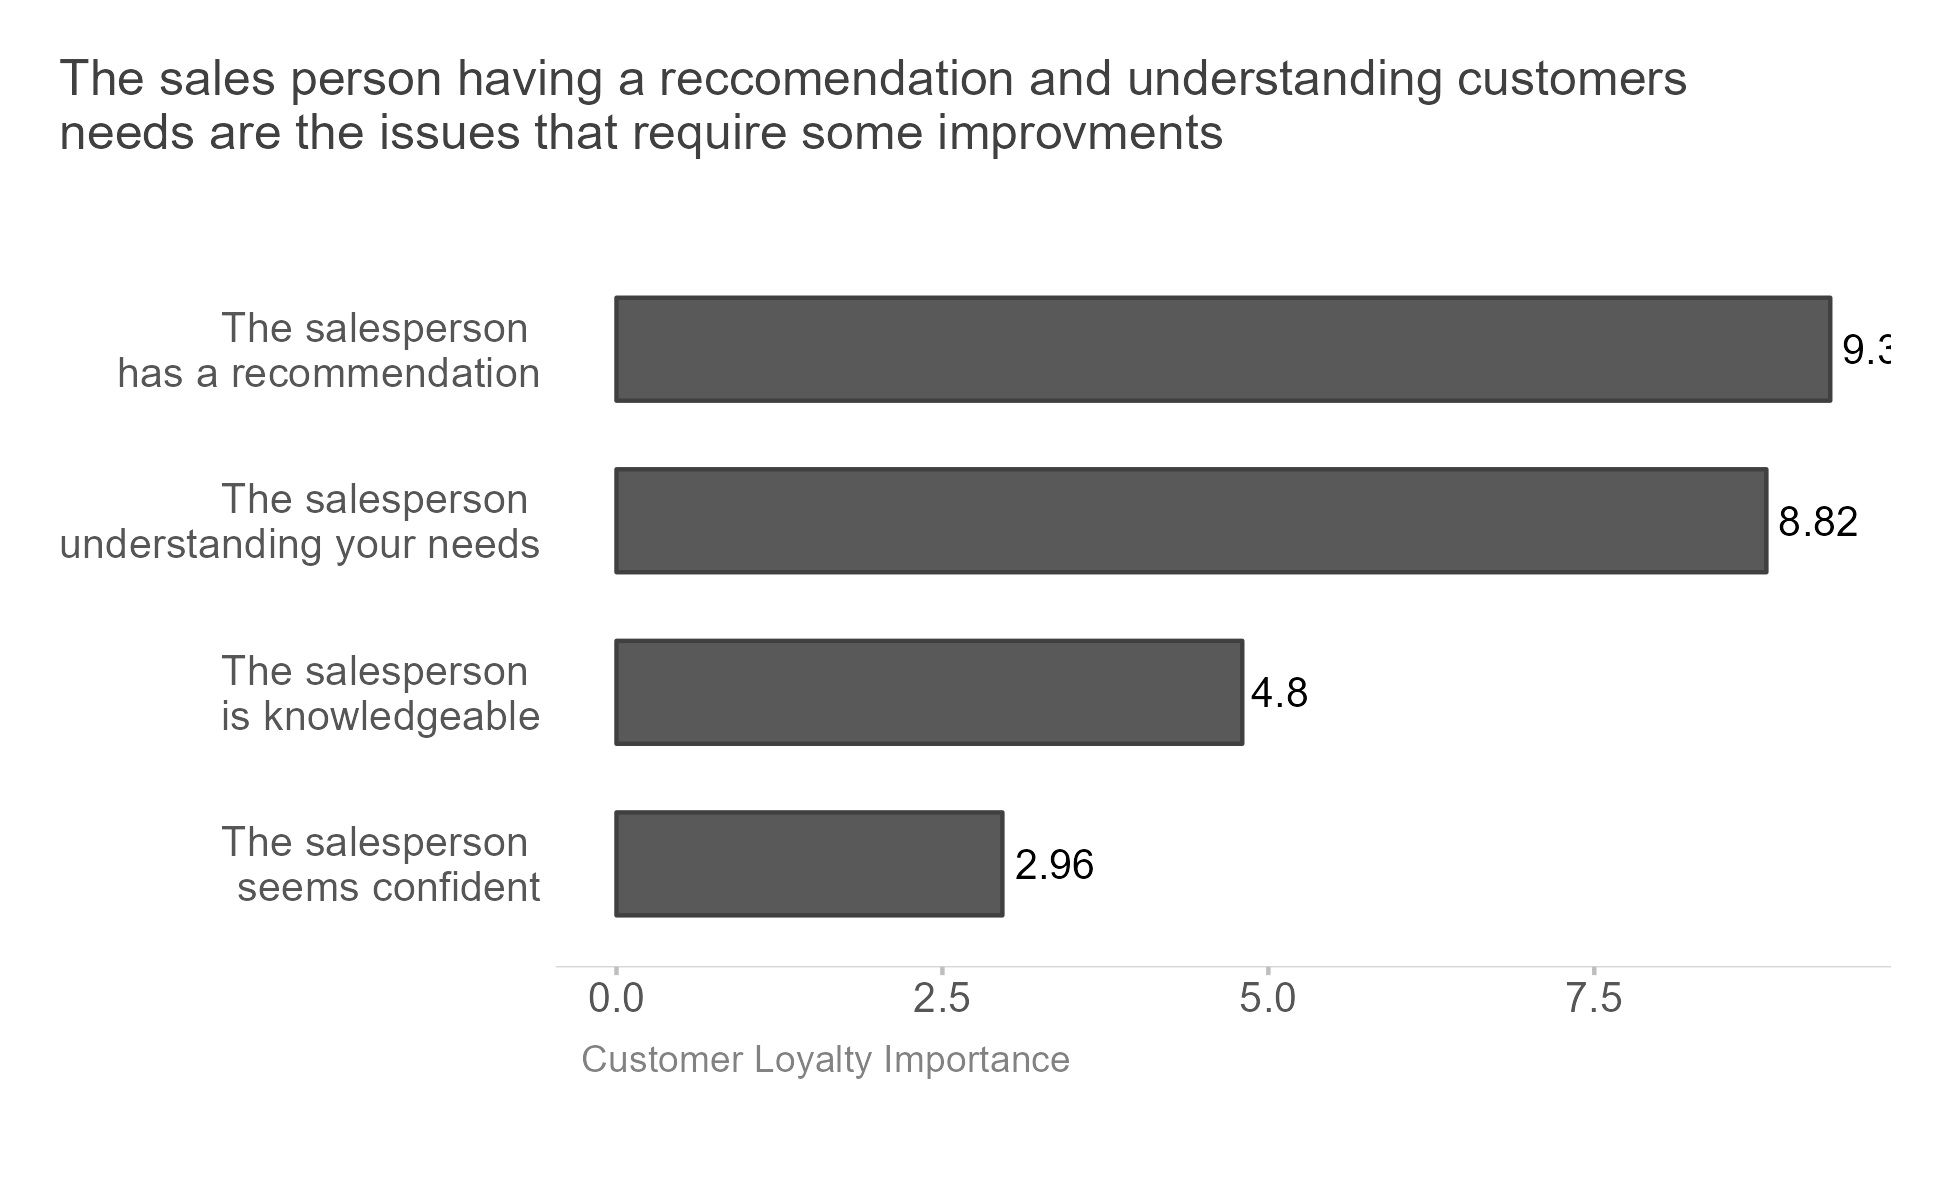
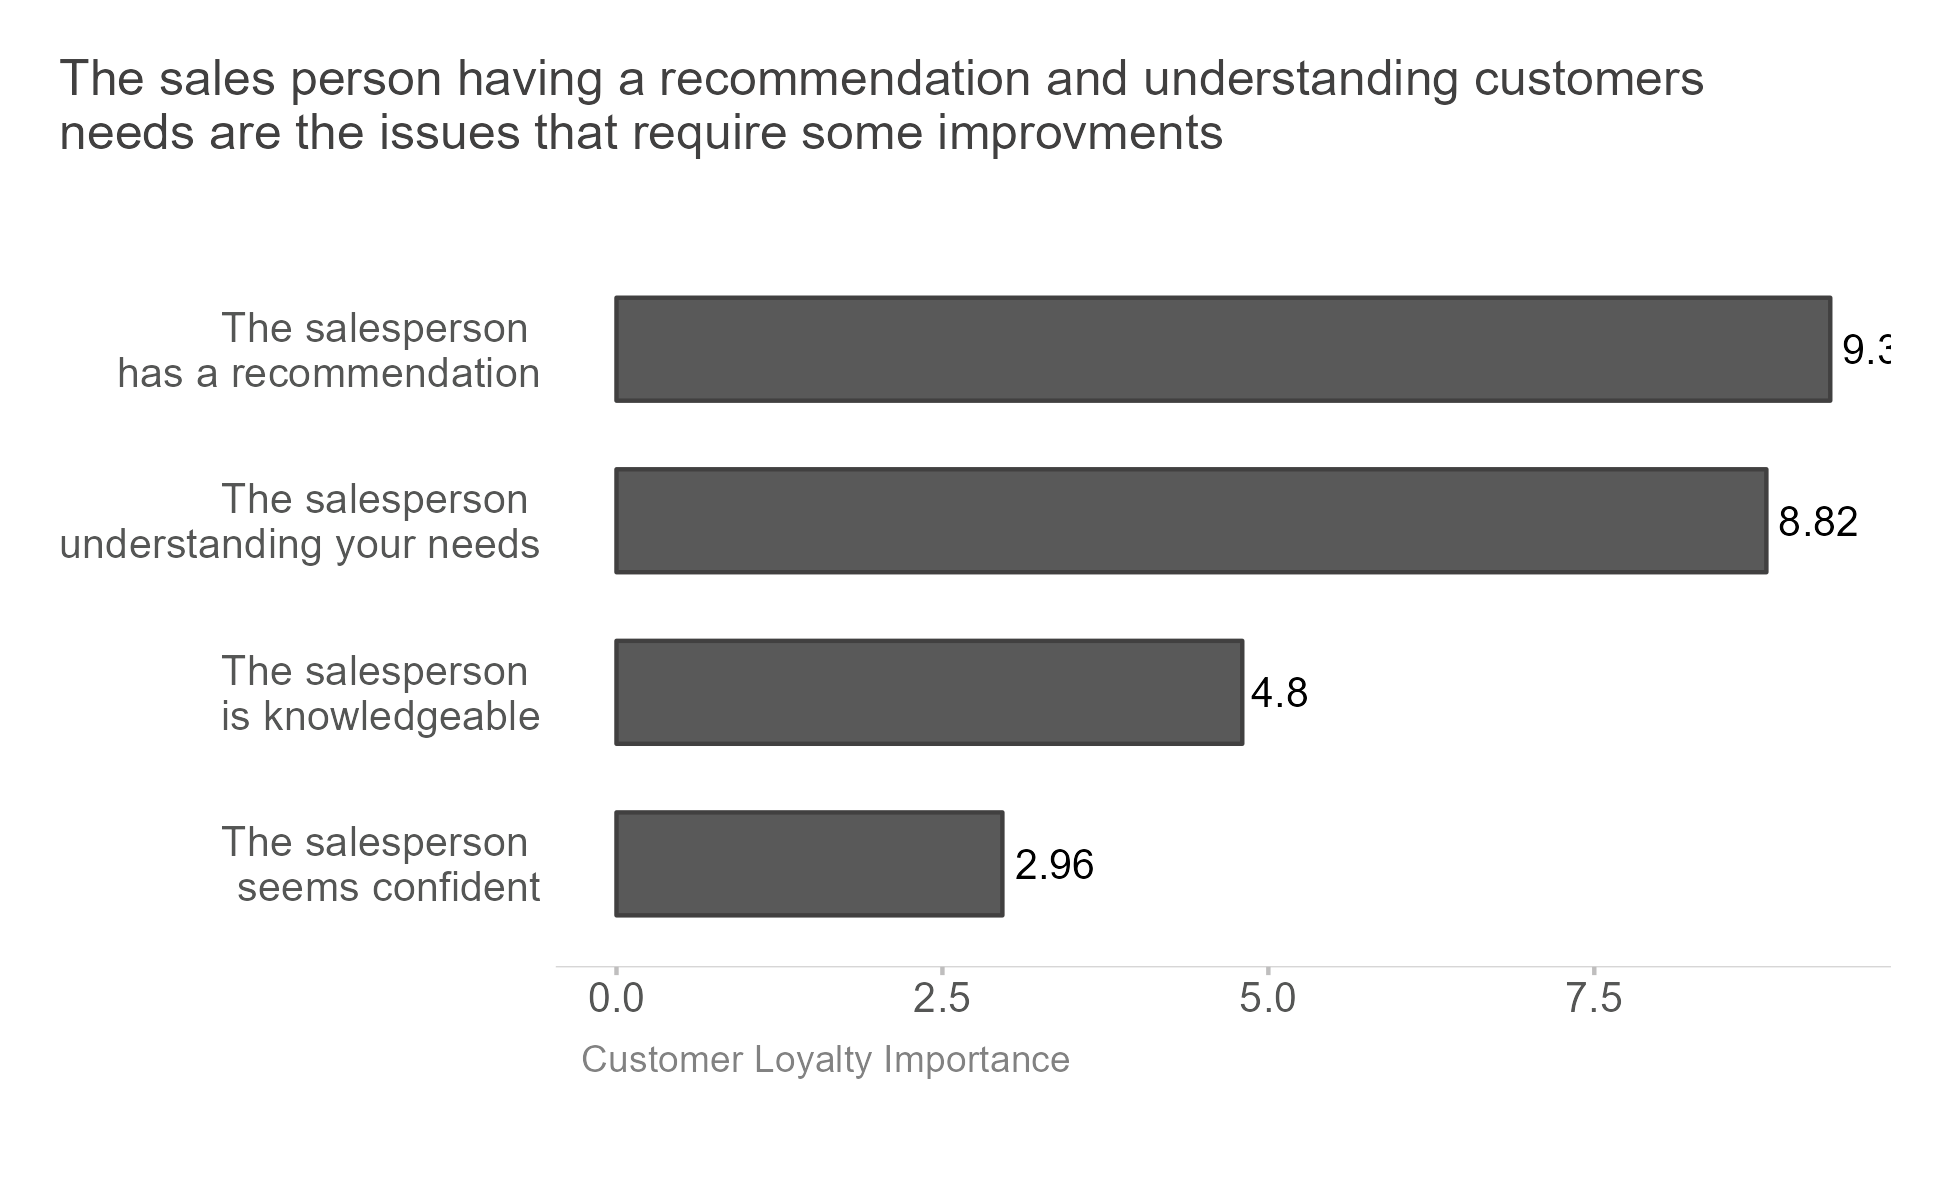
update content

Changed region(s): [[0.3692, 0.0308, 0.8923, 0.0925]]

diff --git a/docs/posts/2024-01-15-key-driver-analysis/index.html b/docs/posts/2024-01-15-key-driver-analysis/index.html
@@ -267,11 +267,11 @@ pre > code.sourceCode > span > a:first-child::before { text-decoration: underlin
 
 
 <p><br></p>
-<p>Each company aims to build a loyal customer base, as customers are more likely to reinvest in a company they trust. Customer loyalty is driven by satisfaction with products and services. Salespeople’s competencies greatly influence customer loyalty. Therefore, many companies aim to understand essential factors for improving sales competencies that boost customer loyalty and repeat investments.</p>
+<p>In the competitive business landscape, every organization strives to cultivate a loyal customer base. This loyalty, often a result of trust and satisfaction with a company’s products and services, is a key driver of repeat business. Consequently, companies are increasingly focusing on identifying and enhancing the critical factors influencing customer loyalty and encouraging repeat investments.</p>
 <p>This post will guide you on how to use key driver analysis to identify the essential factors that impact customer satisfaction and, consequently, customer loyalty.</p>
 <section id="problem-statement" class="level1">
 <h1>Problem statement</h1>
-<p>A financial services organization wants to improve customer loyalty<a href="#fn1" class="footnote-ref" id="fnref1" role="doc-noteref"><sup>1</sup></a>, recognizing its importance in driving repeat investments. However, the organization currently lacks a comprehensive understanding of the key drivers, including sales competencies, that significantly influence customer loyalty within the company.</p>
+<p>A financial services organization intends to improve customer loyalty<a href="#fn1" class="footnote-ref" id="fnref1" role="doc-noteref"><sup>1</sup></a>, recognizing its importance in driving repeat investments. However, the organization currently lacks an understanding of the key drivers that significantly influence customer loyalty within the company.</p>
 </section>
 <section id="analysis-question" class="level1">
 <h1>Analysis Question</h1>
@@ -286,7 +286,7 @@ pre > code.sourceCode > span > a:first-child::before { text-decoration: underlin
 </section>
 <section id="methodology" class="level1">
 <h1>Methodology</h1>
-<p>The financial services company carried out a survey. They asked customers who had interacted with a salesperson to assess specific elements of the salesperson’s competence. They were also asked to express their likelihood of reinvesting in the company and to specify the potential amount of their reinvestment. The final question concerned the salesperson’s gender.</p>
+<p>The financial services company carried out a survey. Customers who had interacted with a salesperson were asked to evaluate specific elements of their competence. They were also asked to express their likelihood of reinvesting in the company and to specify the potential amount of their reinvestment. The final question concerned the salesperson’s gender.</p>
 </section>
 <section id="data-collection-method" class="level1">
 <h1>Data collection method</h1>
@@ -567,7 +567,7 @@ For each variable, there are missing values (NAs).</p>
 <li>Data structure:
 <ul>
 <li>The dataset consists of 2.507 rows, as per the description provided by the data source.</li>
-<li>It contains 8 variables. Seven of these represent the questions from the survey, and an additional variable calculates the mean value of the customer satisfaction survey responses.</li>
+<li>It contains 8 variables. Seven of them represent the questions from the survey, and an additional variable calculates the mean value of the customer satisfaction survey responses.</li>
 </ul></li>
 </ul>
 </section>
@@ -579,10 +579,10 @@ For each variable, there are missing values (NAs).</p>
 <div id="tabset-3-1" class="tab-pane active" role="tabpanel" aria-labelledby="tabset-3-1-tab">
 <table class="table">
 <colgroup>
-<col style="width: 20%">
-<col style="width: 39%">
-<col style="width: 20%">
-<col style="width: 20%">
+<col style="width: 21%">
+<col style="width: 34%">
+<col style="width: 21%">
+<col style="width: 21%">
 </colgroup>
 <thead>
 <tr class="header">
@@ -648,8 +648,8 @@ For each variable, there are missing values (NAs).</p>
 <table class="table">
 <colgroup>
 <col style="width: 30%">
-<col style="width: 44%">
-<col style="width: 25%">
+<col style="width: 43%">
+<col style="width: 26%">
 </colgroup>
 <thead>
 <tr class="header">
@@ -1047,7 +1047,7 @@ For each variable, there are missing values (NAs).</p>
 </section>
 <section id="data-analysis" class="level1">
 <h1>Data Analysis</h1>
-<p>To achieve the objectives of the analysis, I will conduct a key driver analysis<a href="#fn3" class="footnote-ref" id="fnref3" role="doc-noteref"><sup>3</sup></a>. One of the goals of this analysis is to understand the factors influencing customer loyalty. I will start by reviewing the survey response percentages in the customer data.</p>
+<p>In order to achieve the objectives of the analysis, I will conduct a key driver analysis<a href="#fn3" class="footnote-ref" id="fnref3" role="doc-noteref"><sup>3</sup></a>. One of the goals of this analysis is to understand the factors influencing customer loyalty. I will start by reviewing the survey response percentages in the customer data.</p>
 <section id="percentage-of-responses-in-the-customer-survey-data" class="level2">
 <h2 class="anchored" data-anchor-id="percentage-of-responses-in-the-customer-survey-data">Percentage of Responses in the Customer Survey Data</h2>
 <p>Surveyed customers expressed satisfaction and high satisfaction with the ‘The salesperson seems confident’. However, they were less satisfied with ‘The salesperson understanding your needs’ and ‘The salesperson has a recommendation’.</p>
@@ -1269,11 +1269,11 @@ For each variable, there are missing values (NAs).</p>
 
 </div>
 </div>
-<p>‘The salesperson understanding your needs’ and ‘The salesperson has a recommendation’ are the most highly correlated to the question related to loyalty: likelihood of reinvesting. The company might see these areas to focus in its efforts to improve customer loyalty.</p>
+<p>‘The salesperson understanding your needs’ , ‘The salesperson has a recommendation’ , and ‘The salesperson is knowledgeable’ are the most highly correlated to the question related to loyalty (0.49, respectively 0.40). The company might see these areas to focus in its efforts to improve customer loyalty.</p>
 </section>
 <section id="consolidating-the-percentage-and-correlation" class="level2">
 <h2 class="anchored" data-anchor-id="consolidating-the-percentage-and-correlation">Consolidating the Percentage and Correlation</h2>
-<p>In this step, I will integrate the customer satisfaction questions and their correlation to customer loyalty into a unified view for enhanced insights. The ‘Customer Loyalty Importance’ is a calculated metric that combines satisfaction and the correlation in one measure. It allows us to rank survey questions by importance.</p>
+<p>In this step, I will integrate the customer satisfaction questions and their correlation to customer loyalty into a unified view for enhanced insights. To calculate the customer’s importance of loyalty, I calculated the percentage of dissatisfied and very dissatisfied customers in a single metric, percent dissatisfaction. The ‘Customer Loyalty Importance’ is a calculated metric that combines percent dissatisfaction and the correlation to customer loyalty in one measure (see the table below). It allows us to rank survey questions by importance.</p>
 <div class="cell">
 <details class="code-fold">
 <summary>Code</summary>
@@ -1348,6 +1348,7 @@ For each variable, there are missing values (NAs).</p>
 
 </div>
 </div>
+<p>What is the data from the table telling us?</p>
 <div class="cell">
 <details class="code-fold">
 <summary>Code</summary>
@@ -1370,7 +1371,7 @@ For each variable, there are missing values (NAs).</p>
 <span id="cb13-17"><a href="#cb13-17" aria-hidden="true" tabindex="-1"></a>  <span class="fu">geom_bar</span>(<span class="at">stat =</span> <span class="st">"identity"</span>, <span class="at">width =</span> <span class="fl">0.6</span>, <span class="at">color =</span> GRAY2)<span class="sc">+</span></span>
 <span id="cb13-18"><a href="#cb13-18" aria-hidden="true" tabindex="-1"></a>  <span class="fu">geom_text</span>(<span class="fu">aes</span>(<span class="at">label =</span> cust_loyalty_importance), <span class="at">hjust =</span> <span class="sc">-</span><span class="fl">0.15</span>, <span class="at">size =</span> <span class="fl">3.5</span>)<span class="sc">+</span></span>
 <span id="cb13-19"><a href="#cb13-19" aria-hidden="true" tabindex="-1"></a>  <span class="fu">labs</span>(</span>
-<span id="cb13-20"><a href="#cb13-20" aria-hidden="true" tabindex="-1"></a>    <span class="at">title =</span> <span class="st">"The sales person having a reccomendation and understanding customers </span><span class="sc">\n</span><span class="st">needs are the issues that require some improvments </span><span class="sc">\n</span><span class="st">"</span>,</span>
+<span id="cb13-20"><a href="#cb13-20" aria-hidden="true" tabindex="-1"></a>    <span class="at">title =</span> <span class="st">"The sales person having a recommendation and understanding customers </span><span class="sc">\n</span><span class="st">needs are the issues that require some improvments </span><span class="sc">\n</span><span class="st">"</span>,</span>
 <span id="cb13-21"><a href="#cb13-21" aria-hidden="true" tabindex="-1"></a>    <span class="at">subtitle =</span> <span class="st">""</span>,</span>
 <span id="cb13-22"><a href="#cb13-22" aria-hidden="true" tabindex="-1"></a>    <span class="at">x =</span> <span class="st">"Customer Loyalty Importance"</span></span>
 <span id="cb13-23"><a href="#cb13-23" aria-hidden="true" tabindex="-1"></a>  )</span>
@@ -1474,7 +1475,7 @@ For each variable, there are missing values (NAs).</p>
 <h1>Summary</h1>
 <p>In this post, I shared with you my key driver analysis. Here are the steps I followed:</p>
 <ol type="1">
-<li><p>First, I decided what I wanted to understand: What are the key factors influencing customer loyalty within our organization?</p></li>
+<li><p>First, I decided what I wanted to understand: What are the key factors influencing customer loyalty within the organization?</p></li>
 <li><p>From the data available, I selected the measure to understand: customer loyalty (likelihood of reinvesting).</p></li>
 <li><p>Understand the data.</p></li>
 <li><p>Clean the data.</p></li>

diff --git a/docs/index.html b/docs/index.html
@@ -227,7 +227,7 @@ ul.task-list li input[type="checkbox"] {
 
 <div class="quarto-listing quarto-listing-container-grid" id="listing-blog">
 <div class="list grid quarto-listing-cols-3">
-<div class="g-col-1" data-index="0" data-categories="key driver analysis,data cleaning,data visualization" data-listing-date-sort="1705269600000" data-listing-file-modified-sort="1705829238765" data-listing-date-modified-sort="NaN" data-listing-reading-time-sort="23" data-listing-word-count-sort="4410">
+<div class="g-col-1" data-index="0" data-categories="key driver analysis,data cleaning,data visualization" data-listing-date-sort="1705269600000" data-listing-file-modified-sort="1705945965841" data-listing-date-modified-sort="NaN" data-listing-reading-time-sort="23" data-listing-word-count-sort="4411">
 <a href="./posts/2024-01-15-key-driver-analysis/index.html" class="quarto-grid-link">
 <div class="quarto-grid-item card h-100 card-left">
 <p class="card-img-top">

diff --git a/docs/posts.html b/docs/posts.html
@@ -234,7 +234,7 @@ ul.task-list li input[type="checkbox"] {
     </div>
 </div>
 <div class="list grid quarto-listing-cols-3">
-<div class="g-col-1" data-index="0" data-categories="key driver analysis,data cleaning,data visualization" data-listing-date-sort="1705269600000" data-listing-file-modified-sort="1705829238765" data-listing-date-modified-sort="NaN" data-listing-reading-time-sort="23" data-listing-word-count-sort="4410">
+<div class="g-col-1" data-index="0" data-categories="key driver analysis,data cleaning,data visualization" data-listing-date-sort="1705269600000" data-listing-file-modified-sort="1705945965841" data-listing-date-modified-sort="NaN" data-listing-reading-time-sort="23" data-listing-word-count-sort="4411">
 <a href="./posts/2024-01-15-key-driver-analysis/index.html" class="quarto-grid-link">
 <div class="quarto-grid-item card h-100 card-left">
 <p class="card-img-top">
